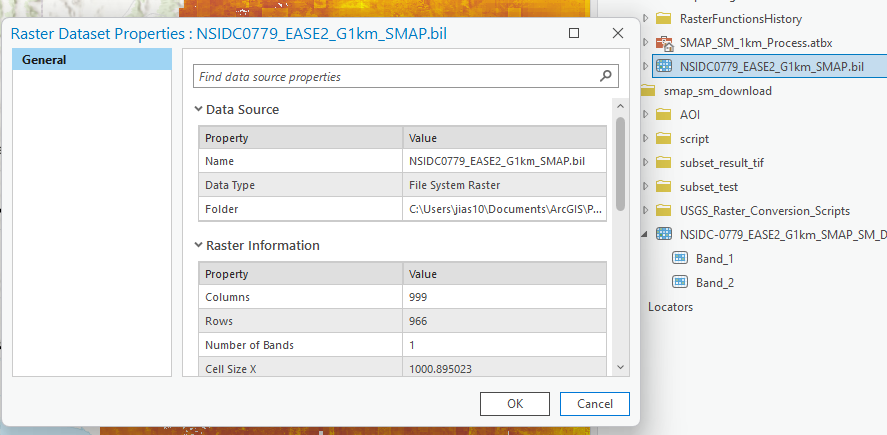
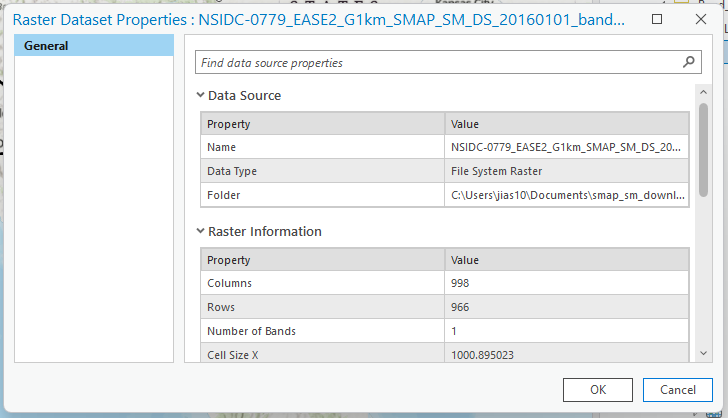
update TIMESAT tutorial

Changed region(s): [[0.0, 0.0, 1.0, 1.0], [0.4533, 0.8397, 0.544, 0.8708]]

diff --git a/02-TIMESAT-data-prep.md b/02-TIMESAT-data-prep.md
@@ -1,82 +1,120 @@
 # Tech Note 2: Preparing data for TIMESAT analysis
 
-Shenyue Jia | 05/23/2024
+Shenyue Jia \| 05/23/2024
 
 ## Overview
 
-- This tutorial focuses on a 1-km downscaled SMAP soil moisture data product
-  - SMAP-Derived 1-km Downscaled Surface Soil Moisture Product, Version 1
-  - [More information](https://nsidc.org/data/nsidc-0779/versions/1)
-- The original GeoTIFF images of this product needs further process to be utilized in TIMESAT
-  - Separating ascending and descending overpass as individual files
-  - Converting all GeoTIFF images to BIL (binary format) to be used in TIMESAT
+-   This tutorial focuses on a 1-km downscaled SMAP soil moisture data product
+    -   SMAP-Derived 1-km Downscaled Surface Soil Moisture Product, Version 1
+    -   [More information](https://nsidc.org/data/nsidc-0779/versions/1)
+-   The original GeoTIFF images of this product needs further process to be utilized in TIMESAT
+    -   Separating ascending and descending overpass as individual files
+    -   Converting all GeoTIFF images to BIL (binary format) to be used in TIMESAT
 
 ## About ascending and descending overpass of SMAP
-- Each GeoTIFF image from this data product contains **two bands**, representing the ascending and descending overpass of SMAP
-  - Ascending (AM): occurs at 0600 hrs local time 
-  - Descending (PM): occurs at 1800 hrs local time 
-  - [More inforation about ascending and descending scanning of SMAP](https://smap.jpl.nasa.gov/data/)
 
-**Two bands**
-![img](https://github.com/jiashenyue/soil-moisture-analysis-tech-notes/blob/main/pics/004-tech-note.png)
+-   Each GeoTIFF image from this data product contains **two bands**, representing the ascending and descending overpass of SMAP
+    -   Ascending (AM): occurs at 0600 hrs local time
+    -   Descending (PM): occurs at 1800 hrs local time
+    -   [More inforation about ascending and descending scanning of SMAP](https://smap.jpl.nasa.gov/data/)
 
-**Ascending overpass**
-![img](https://github.com/jiashenyue/soil-moisture-analysis-tech-notes/blob/main/pics/005-tech-note.png)
+**Two bands** ![img](https://github.com/jiashenyue/soil-moisture-analysis-tech-notes/blob/main/pics/004-tech-note.png)
 
-**Descending overpass**
-![img](https://github.com/jiashenyue/soil-moisture-analysis-tech-notes/blob/main/pics/006-tech-note.png)
+**Ascending overpass** ![img](https://github.com/jiashenyue/soil-moisture-analysis-tech-notes/blob/main/pics/005-tech-note.png)
 
-**Ascending overpass coverage of California**
-![img](https://github.com/jiashenyue/soil-moisture-analysis-tech-notes/blob/main/pics/008-tech-note.png)
+**Descending overpass** ![img](https://github.com/jiashenyue/soil-moisture-analysis-tech-notes/blob/main/pics/006-tech-note.png)
 
-**Descending overpass coverage of California**
-![img](https://github.com/jiashenyue/soil-moisture-analysis-tech-notes/blob/main/pics/007-tech-note.png)
+**Ascending overpass coverage of California** ![img](https://github.com/jiashenyue/soil-moisture-analysis-tech-notes/blob/main/pics/008-tech-note.png)
+
+**Descending overpass coverage of California** ![img](https://github.com/jiashenyue/soil-moisture-analysis-tech-notes/blob/main/pics/007-tech-note.png)
 
 ## Separating individual bands
 
-- Keep using a consistent collection (ascending or descending)
-  - The same location does not get daily coverage
-- After downloading and subsetting all 1-km SMAP products, loop over all subsetted images to separate **Band 2** from the original image if using descending images
+-   Keep using a consistent collection (ascending or descending)
+    -   The same location does not get daily coverage
+-   After downloading and subsetting all 1-km SMAP products, loop over all subsetted images to separate **Band 2** from the original image if using descending images
 
 ## Converting TIF to a binary image (BIL)
 
-- TIMESAT can only read a binary image
-  - TIF (GeoTIFF) is NOT a binary image since the original data has been compressed
-- A binary image is a straightforward matrix with X and Y as Columns and Rows
-  - TIMESAT needs this information (columns and rows) and data type of values stored in this matrix to read the data
+-   TIMESAT can only read a binary image
+    -   TIF (GeoTIFF) is NOT a binary image since the original data has been compressed
+-   A binary image is a straightforward matrix with X and Y as Columns and Rows
+    -   TIMESAT needs this information (columns and rows) and data type of values stored in this matrix to read the data
 
-**An example of binary image matrix**  
+**An example of binary image matrix**\
 ![img](https://github.com/jiashenyue/soil-moisture-analysis-tech-notes/blob/main/pics/009-tech-note.png)
 
-- BIL (.bil) format is a widely used binary image format
-  - BIL means “band interleaved by line”
-  - [More information about BIL and other formats of binary image](https://desktop.arcgis.com/en/arcmap/latest/manage-data/raster-and-images/bil-bip-and-bsq-raster-files.htm)
+-   BIL (.bil) format is a widely used binary image format
+    -   BIL means "band interleaved by line"
+    -   [More information about BIL and other formats of binary image](https://desktop.arcgis.com/en/arcmap/latest/manage-data/raster-and-images/bil-bip-and-bsq-raster-files.htm)
 
 ## TIMESAT installation
-- Follow the tutorial of TIMESAT 3.3 in [this link](https://web.nateko.lu.se/timesat/docs/TIMESAT33_SoftwareManual.pdf)
-  - Make sure you download the TIMESAT standalone version 3.3 for Windows users without Matlab
-    - [Download link](https://web.nateko.lu.se/timesat/timesat.asp?cat=4)
+
+### Download TIMESAT
+
+-   Follow the tutorial of TIMESAT 3.3 in [this link](https://web.nateko.lu.se/timesat/docs/TIMESAT33_SoftwareManual.pdf)
+    -   Make sure you download the TIMESAT version 3.3 for Windows users **with** Matlab installed
+        -   [Download link](https://web.nateko.lu.se/timesat/timesat.asp?cat=4)
+
+### Matlab free trial installation
+
+-   As students or academia users, we can download a free trial version of Matlab
+    -   [Download link](https://www.mathworks.com/products/matlab/student.html)
+    -   This requires your \*.edu email address and account registration with this email address
+    -   After registrating an account with Matlab, you can find the download options for different versions of Matlab
+-   I downloaded Matlab 2016b and installed this version just in case there is anything wrong with the latest version
+    -   This installation may take some time as I recommend installing all the libraries come with the software
+    -   Also download and install the updates for Matlab 2016b
+
+### Configure paths in Matlab to run TIMESAT
+
+-   We need to add TIMESAT installation folder in Matlab so that the program can run
+    -   You can also find the same directions in [TIMESAT 3.3 Software Manual](https://web.nateko.lu.se/personal/Lars.Eklundh/TIMESAT/prog/version33/TIMESAT33_SoftwareManual.pdf), **page 47**
+
+1.  Click **Set Path** menu
+
+![img]()
+
+2.  Click *Add with Subfolders*
+
+![img]()
+
+3.  Navigate to the folder **timesat_matlab** under the main **timesat33** folder
+4.  *Save* and *Close*
+5.  After this, set the TIMESAT working directory to \*\*timesat33\run\*\*
+
+-   Click the Working Directory bar to navigate to your \*\*timesat33\run\*\* folder
+
+![img]()
+
+6.  Type **TIMESAT** in Matlab Command Window to run the program
+
+![img]()
 
 ## An example of reading a BIL image in TIMESAT
 
-- Open TIMESAT menu system and click TSM image view
+-   Open TIMESAT menu system and click TSM image view
 
 ![img](https://github.com/jiashenyue/soil-moisture-analysis-tech-notes/blob/main/pics/010-tech-note.png)
 
-- Go to File/Open Image File to identify a binary (.bil) you have saved
+-   Go to File/Open Image File to identify a binary (.bil) you have saved
 
 ![img](https://github.com/jiashenyue/soil-moisture-analysis-tech-notes/blob/main/pics/012-tech-note.png)
 
-- You also need the number of rows and columns per image information
-  - If using ArcGIS Pro, you can get the information from layer properties
+-   You also need the number of rows and columns per image information
+    -   If using ArcGIS Pro, you can get the information from layer properties
+    -   *Updated on 5/30/24*
+      - **If using a BIL subset by your Python script with `arcpy`, please use a new version of rows and cols as this is slightly different from the old numbers I provided**
 
 ![img](https://github.com/jiashenyue/soil-moisture-analysis-tech-notes/blob/main/pics/013-tech-note.png)
 
-- If all parameters are correctly added, the image will show up like this
-  - **Adjusting the minimal value of pixel can help you see more details of the subtle changes**
-  - The default minimal value is sometimes too small to let the details show up
+-   If all parameters are correctly added, the image will show up like this
+    -   **Adjusting the minimal value of pixel can help you see more details of the subtle changes**
+    -   The default minimal value is sometimes too small to let the details show up
 
 ![img](https://github.com/jiashenyue/soil-moisture-analysis-tech-notes/blob/main/pics/011-tech-note.png)
 
 ## Reference
-- [A tutorial of time series analysis using TIMESAT](https://datapartnership.org/syria-economic-monitor/notebooks/vegetation-conditions/Seasonality_Parameters_Data_Extraction.html)
+
+-   [A tutorial of time series analysis using TIMESAT](https://datapartnership.org/syria-economic-monitor/notebooks/vegetation-conditions/Seasonality_Parameters_Data_Extraction.html)
+-   [TIMESAT 3.3 Software Manual](https://web.nateko.lu.se/personal/Lars.Eklundh/TIMESAT/prog/version33/TIMESAT33_SoftwareManual.pdf)
